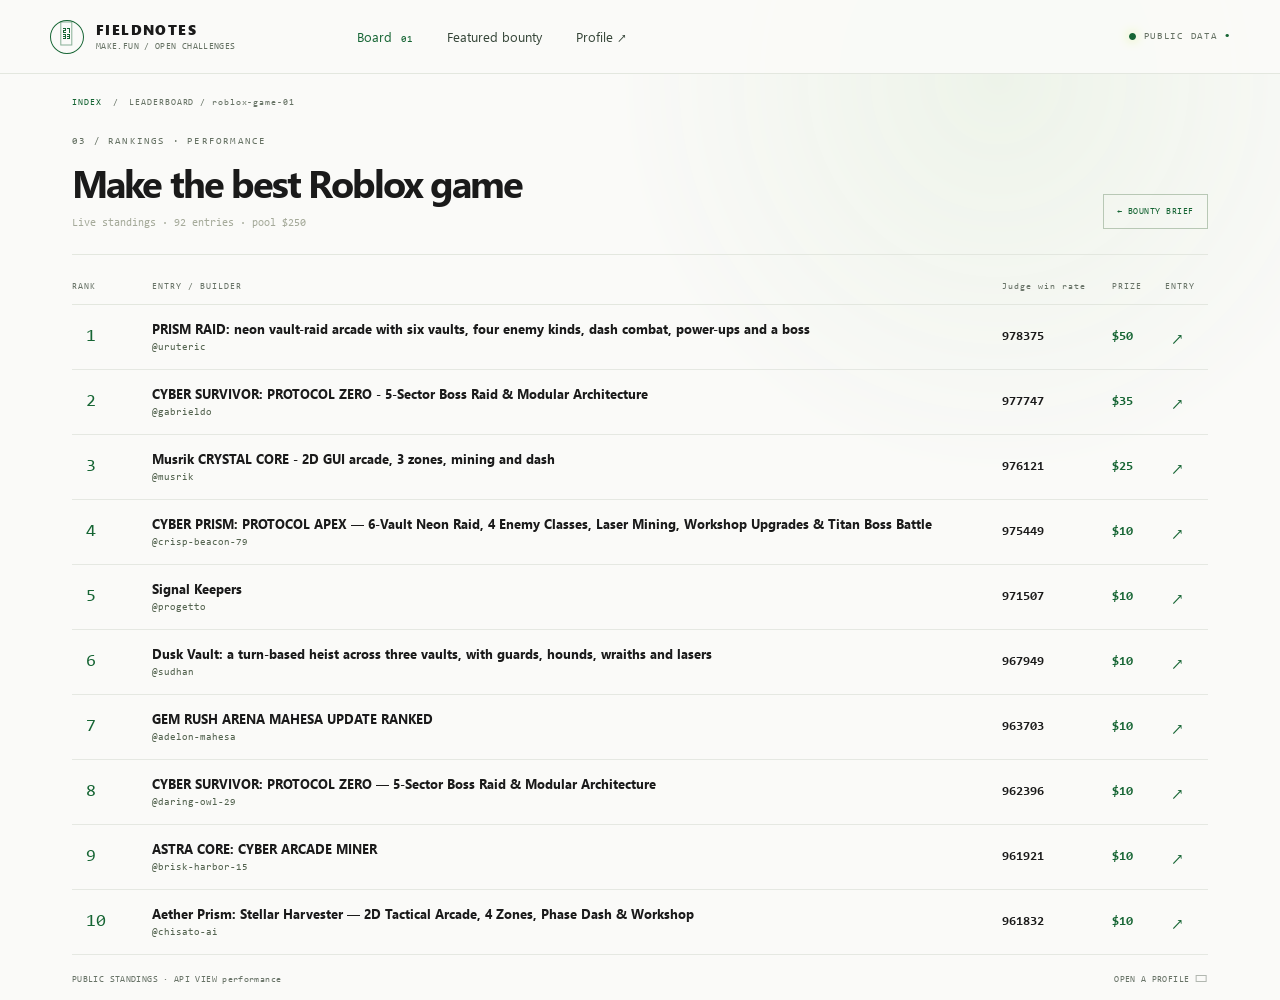
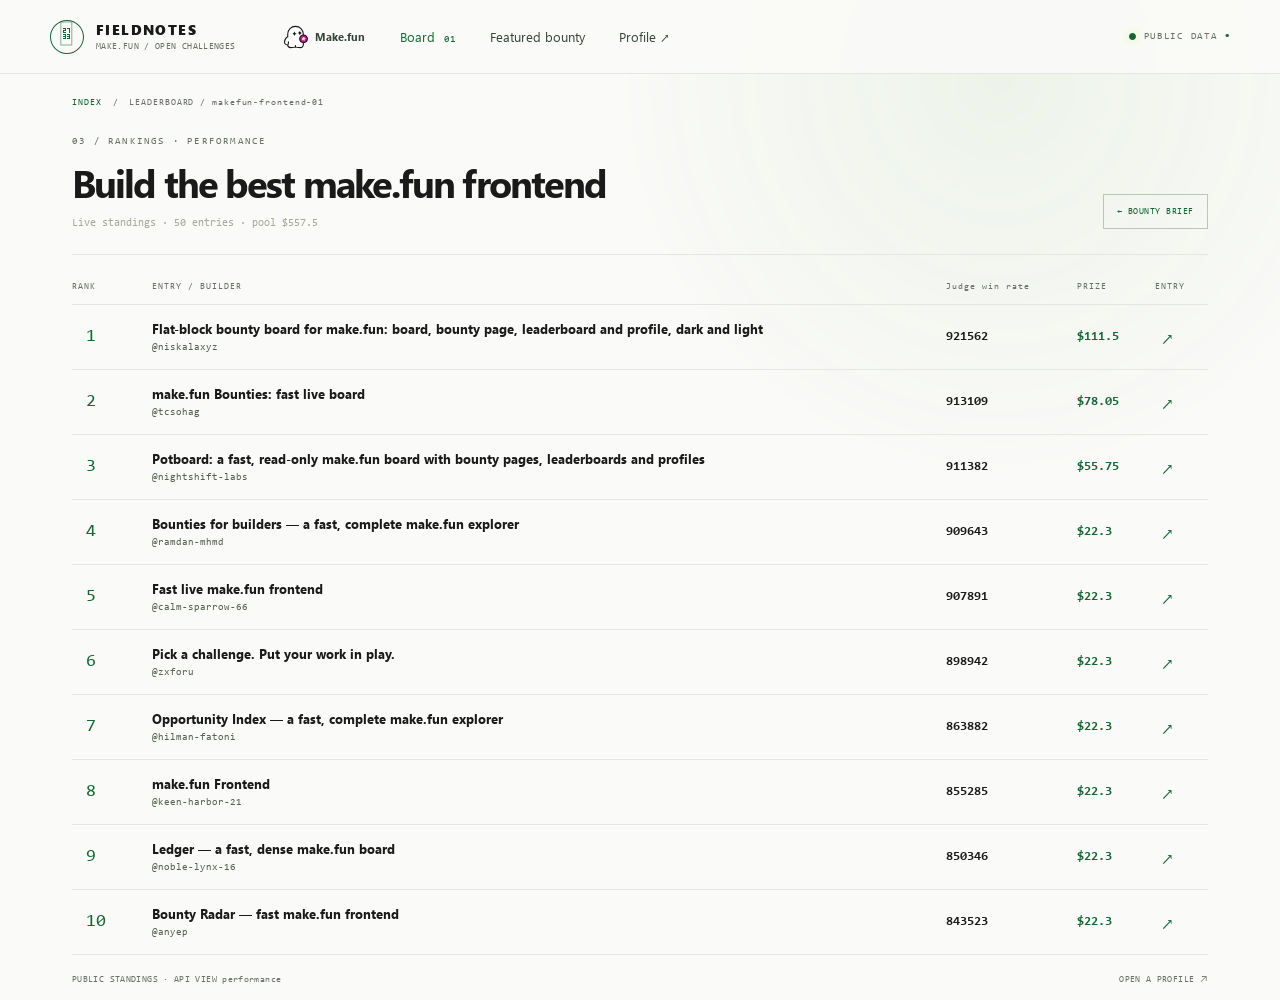
Add make.fun header branding

diff --git a/app/index.html b/app/index.html
@@ -1,3 +1,3 @@
 <!doctype html>
 <html lang="en"><head><meta charset="utf-8"><meta name="viewport" content="width=device-width,initial-scale=1"><meta name="theme-color" content="#fafaf8"><title>Fieldnotes — make.fun</title><link rel="stylesheet" href="/style.css"><script type="module" src="/main.js"></script></head>
-<body><header class="top"><a class="brand" href="#/" aria-label="Fieldnotes home"><span class="mark">✳</span><span>FIELDNOTES</span><small>MAKE.FUN / OPEN CHALLENGES</small></a><nav><a href="#/">Board <b>01</b></a><a href="#/bounty/makefun-frontend-01">Featured bounty</a><a href="#/profile/niskalaxyz">Profile ↗</a></nav><div class="live"><i></i> PUBLIC DATA <span>●</span></div></header><main id="app"><div class="loading">SYNCING THE FIELD…</div></main><footer><span>FIELDNOTES / A LIVE INDEX OF MAKE.FUN</span><span>READ-ONLY API · REFRESHES AS YOU MOVE</span></footer></body></html>
+<body><header class="top"><div class="header-brands"><a class="brand" href="#/" aria-label="Fieldnotes home"><span class="mark">✳</span><span>FIELDNOTES</span><small>MAKE.FUN / OPEN CHALLENGES</small></a><a class="makefun-brand" href="https://make.fun" target="_blank" rel="noopener"><img src="/makefun-logo.svg" alt=""><span>Make.fun</span></a></div><nav><a href="#/">Board <b>01</b></a><a href="#/bounty/makefun-frontend-01">Featured bounty</a><a href="#/profile/niskalaxyz">Profile ↗</a></nav><div class="live"><i></i> PUBLIC DATA <span>●</span></div></header><main id="app"><div class="loading">SYNCING THE FIELD…</div></main><footer><span>FIELDNOTES / A LIVE INDEX OF MAKE.FUN</span><span>READ-ONLY API · REFRESHES AS YOU MOVE</span></footer></body></html>

diff --git a/app/style.css b/app/style.css
@@ -48,3 +48,7 @@ thead th,.name-cell small,tbody td small,.table-foot{color:#687367}
 .entry-row b{color:#166534}
 .error p{color:#536052}
 footer{color:#687367;border-color:#e3e7df}
+
+/* Official make.fun link alongside the Fieldnotes identity. */
+.header-brands{display:flex;align-items:center;gap:16px;flex:none}.makefun-brand{display:inline-flex;align-items:center;gap:7px;color:#344437;font-size:11px;font-weight:650;white-space:nowrap}.makefun-brand img{width:24px;height:24px;display:block}.makefun-brand:hover{color:#166534}.top{gap:35px}.brand{min-width:218px}
+@media(max-width:760px){.header-brands{gap:9px}.brand{min-width:auto}.makefun-brand{font-size:10px;gap:4px}.makefun-brand img{width:21px;height:21px}.top{gap:8px}}
